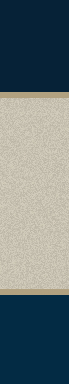
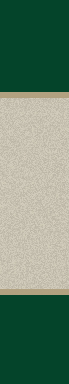
REFACTOR: Convert template to green

diff --git a/templatemo_style.css b/templatemo_style.css
@@ -6,7 +6,7 @@ CSS Credit: http://www.templatemo.com/
 
 html {
 
-	background: #032b44;
+	background: #03442b;
 
 }
 
@@ -24,7 +24,7 @@ body {
 
 	color: #fff;
 
-	background: #032b44 url(images/templatemo_top_bg.jpg) repeat-x  center top;
+	background: #03442b url(images/templatemo_top_bg.jpg) repeat-x  center top;
 
 	width: 100%;
 
@@ -408,7 +408,7 @@ h2 {
 
 	padding-top: 20px;
 
-	background-color: #062237;
+	background-color: #063722;
 
 }
 
